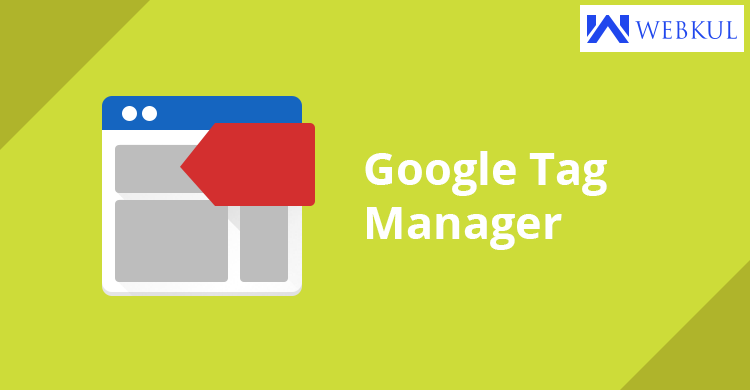
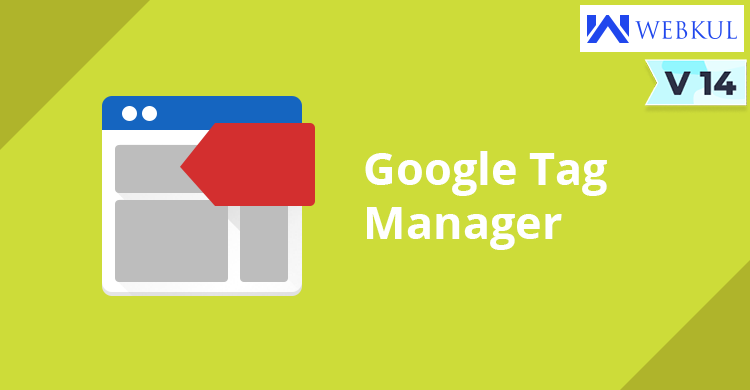
Upload Google Tag Manager 14

Changed region(s): [[0.8587, 0.1538, 1.0, 0.2769]]

diff --git a/odoo_google_tag_manager/static/description/index.html b/odoo_google_tag_manager/static/description/index.html
@@ -1,12 +1,39 @@
 <!-- Copyright (c) 2017-Present Webkul Software Pvt. Ltd. (<https://webkul.com/>) -->
 <!-- See LICENSE file for full copyright and licensing details. -->
 <!-- License URL: https://store.webkul.com/license.html/ -->
+<section class="oe_container" id="wk_header">
+    <div class="mt32 mb32">
+        <h2 class="text-center" style="color:#000">
+            Google Tag Manager
+        </h2>
+        <h5 class="mt8 mb8 text-center" style="font-weight:500; font-size:18px; color:#484848; font-family:'Montserrat', sans-serif">
+            <i>Measure actions and build audiences & Track visitor activity </i>
+        </h5>
+    </div>
+    <div class="row mt16 mb16 py-2 m-1" style="font-weight:500; font-size:18px; color:#484848; font-family:'Montserrat', sans-serif">
+        <div class="container col-md-6 border-right" style="font-weight:500;line-height: 24px;font-size:16px;color:#484848;font-family:'Montserrat', sans-serif; vertical-align: middle; display: grid;">
+            <p class="mb4 mt4 mr8">
+                Manage all your tags without editing code. Google Tag Manager delivers simple, reliable, easily integrated tag management.
+            </p>
+        </div>
+        <div class="container col-md-6 ">
+            <h4 class="ml-md-3">Information</h4>
+            <div class="mt-2 ml-md-3" style="display:flex">
+                <span class="ml-1 mr-2 my-auto"><img src="screenshot/icon-user-guide.png" alt="user-guide"></span>
+                <div style="font-weight: 600;font-size: 14px;line-height: 10px;" class="mt-2">
+                    User Guide
+                </div>
+            </div>
+            <div class="ml-md-3" style="display:flex;">
+                <span style="font-size:15px; margin-top:0.2rem">https://webkul.com/blog/odoo-google-tag-manager</span>
+            </div>
+        </div>
+    </div>
+</section>
 <section class="oe_container oe_dark">
     <div class="oe_row oe_spaced" style="max-width: 100%;">
-        <h2 class="oe_slogan">Google Tag Manager</h2>
-        <h3 class="oe_slogan">Manage all your tags without editing code. Google Tag Manager delivers simple, reliable, easily integrated tag management.</h3>
         <div class="oe_span12" style="max-width: 100%;">
-          <div class="panel panel-primary">
+          <div class="panel">
             <div class="panel-body">
 
                 <div class="alert alert-info">
@@ -57,7 +84,8 @@
         </div>
         <div class="oe_span12" style="max-width: 100%;">
             <p>Setup an account in Google Tag Manager & get container id from the account. For more info <b><a href="https://support.google.com/tagmanager/answer/6103696?hl=en" target="new"> Click Here</a></b>.</p>
-            <p>Simple configuration for back-end from <b><i> Website Admin > Settings > Google Tagmanager ID</i></b>. Generate & fill Tag Manager container id to eneble tagging.</p>
+            <p>Simple configuration for back-end user which will be easily available from <b><i> Website > Configuration > Settings > Website > Google Tag Manager</i></b>.</p>
+            <p>Enable Google Tag Manager Setting & then fill container id.</p>
             <div class="oe_demo oe_picture oe_screenshot" style="max-height: 100%;" >
                 <a href="screenshot/screenshot_002.jpg" target="_blank">
                     <img src="screenshot/screenshot_002.jpg" alt="Odoo Google Tag Manager">
@@ -162,30 +190,69 @@
     </div>
 </section>
 
-<section class="oe_container oe_dark lead">
-    <div class="oe_row" style="max-width: 100%;">
-            <div class="oe_span12" style="max-width: 100%;">
-                <h2 class="oe_slogan">Complimentary Support</h2>
-                <p>
-                You will get 90 days free support for any doubt, queries, and bug fixing (excluding data recovery) or any type of issue related to this module.
-                </p>
-            </div>
+<section class="oe_container oe_dark">
+    <h2 class="oe_slogan">Other Related Modules</h2>
+    <div class="row">
+        <div class="col-md-4">
+            <a href='https://apps.odoo.com/apps/modules/12.0/piwik_website_analytics' target="new">
+                <img class="oe_picture oe_screenshot img-rounded" src="https://apps.odoocdn.com/apps/assets/12.0/piwik_website_analytics/Banner.png"/>
+            </a>
+        </div>
+        <div class="col-md-4">
+            <a href='https://apps.odoo.com/apps/modules/14.0/fb_pixel' target="new">
+                <img class="oe_picture oe_screenshot img-rounded" src="https://apps.odoocdn.com/apps/assets/14.0/fb_pixel/Banner.png"/>
+            </a>
+        </div>
+        <div class="col-md-4">
+            <a href='https://apps.odoo.com/apps/modules/13.0/google_rich_snippets' target="new">
+                <img class="oe_picture oe_screenshot img-rounded" src="https://apps.odoocdn.com/apps/assets/13.0/google_rich_snippets/Banner.png"/>
+            </a>
+        </div>
     </div>
-    <div class="oe_row oe_spaced" style="max-width: 100%;">
-        <div class="oe_span12" style="max-width: 100%;">
+</section>
+
+<section class="pt32" id="webkul_support">
+    <div class="row">
+        <div class="col-12">
             <h2 class="text-center">Help and Support</h2>
+            <p class="mb-2 text-center" style="font-size:16px; color:#333; font-weight:400">Get Immediate support for any of your query</p>
         </div>
-        <br>
-        <div class="oe_slogan oe_spaced">
-            <span><a data-toggle="tooltip" data-placement="bottom" title="Get Instant Help !" target="_blank" href="https://webkul.uvdesk.com/en/customer/create-ticket/"> <i class="fa fa-life-ring"></i> Help</a></span>
-            <span><a data-toggle="tooltip" data-placement="bottom" title="Get Instant Support!" target="_blank" href="https://webkul.uvdesk.com/en/customer/create-ticket/"><i class="fa fa-ticket"></i> Support</a></span>
-            <span><a data-toggle="tooltip" data-placement="bottom" title="Request Features now !" target="_blank" href="https://webkul.uvdesk.com/en/customer/create-ticket/"><i class="fa fa-check-circle"></i> Request new Features</a></span>
+        <div class="col-12">
+            <p class="text-center px-5" style="font-size:14px; color:#555; font-weight:normal">You will get 90 days free support for any doubt, queries, and bug fixing (excluding data recovery) or any type of issue related to this module.</p>
+        </div>
+        <div class="mx-auto col-lg-9 mb-4 oe_screenshot">
+            <div class="row align-items-center justify-content-center mx-0 p-3">
+                <div class="col-sm-2 text-center pr-0">
+                    <img src="screenshot/mail.png" alt="mail" class="img img-fluid">
+                </div>
+                <div class="col-xl-7 col-sm-10">
+                    <p class="my-2" style="color:#555; font-weight:bold">Write a mail to us:</p>
+                    <b class="text-primary" style="font-size:18px">support@webkul.com</b>
+                    <p class="my-2" style="font-size:14px; color:#777; font-weight:normal">Any queries or want any extra features? Just drop a mail to our support team.</p>
+                </div>
+                <div class="col-xl-3 offset-xl-0 float-xl-right col-sm-10 offset-sm-2 float-left mt16">
+                    <a href="mailto:support@webkul.com" style="padding:10px 22px; background-color:#2335D7; font-size:14px; color:#fff"><i class="fa fa-pencil-square-o" style="color:white; margin-right:4px"></i>Write To US</a>
+                </div>
+            </div>
+        </div>
+        <div class="mx-auto col-lg-9 oe_screenshot">
+            <div class="row align-items-center justify-content-center mx-0 p-3">
+                <div class="col-sm-2 text-center pr-0">
+                    <img src="screenshot/support-icon.png" alt="support-icon" class="img img-fluid">
+                </div>
+                <div class="col-sm-10 ">
+                    <p class="my-2" style="font-weight:bold; color:#555">Get in touch with our Expert:</p>
+                    <b class="text-primary text-break" style="font-size:18px">https://webkul.uvdesk.com/en/customer/create-ticket/</b>
+                    <p class="my-2" style="font-weight:normal; font-size:14px; color:#777">Have any technical queries, want extra features, or anything else? Our team is here to answer all your questions. Just Raise A Support Ticket.</p>
+                </div>
+            </div>
         </div>
     </div>
-</section><section class="oe_container">
+</section>
+<section class="oe_container">
     <div class="oe_span12" style="max-width: 100%;">
         <!-- Matomo Image Tracker-->
-        <img src="http://odooimg.webkul.com/analytics/piwik/piwik.php?idsite=3&rec=1&action_name=GOOGLE-TAG-MANAGER&url=https://apps.openerp.com/apps/modules/10.0/odoo_google_tag_manager&uid=odoo_google_tag_manager" style="border:0" alt="" />
+        <img src="http://odooimg.webkul.com/analytics/piwik/piwik.php?idsite=3&rec=1&action_name=GOOGLE-TAG-MANAGER&url=https://apps.openerp.com/apps/modules/14.0/odoo_google_tag_manager&uid=odoo_google_tag_manager" style="border:0" alt="" />
         <!-- End Matomo -->
     </div>
 </section>

diff --git a/odoo_google_tag_manager/__manifest__.py b/odoo_google_tag_manager/__manifest__.py
@@ -15,9 +15,9 @@
 #################################################################################
 {
   "name"                 :  "Google Tag Manager",
-  "summary"              :  "The module integrates Odoo with Google Tag Manager so you can send the customer behaviour data from Odoo website to Google analytics.",
+  "summary"              :  """The module integrates Odoo with Google Tag Manager so you can send the customer behaviour data from Odoo website to Google analytics.""",
   "category"             :  "Website",
-  "version"              :  "1.0.0",
+  "version"              :  "1.0.2",
   "sequence"             :  1,
   "author"               :  "Webkul Software Pvt. Ltd.",
   "license"              :  "Other proprietary",
@@ -33,18 +33,16 @@ Use GTM in odoo
 Track customer data
 Google analytics in Odoo
 Analyze website data
-Track customer behaviour on website
-    """,
+Track customer behaviour on website""",
   "live_test_url"        :  "http://odoodemo.webkul.com/?module=odoo_google_tag_manager",
   "depends"              :  ['website_sale'],
   "data"                 :  [
-                             'views/website_views.xml',
-                             'views/res_config.xml',
+                             'views/res_config_settings_views.xml',
                              'views/snippets_template.xml',
                             ],
   "images"               :  ['static/description/Banner.png'],
   "application"          :  True,
   "price"                :  45,
-  "currency"             :  "EUR",
+  "currency"             :  "USD",
   "pre_init_hook"        :  "pre_init_check",
 }

diff --git a/odoo_google_tag_manager/models/res_config_settings.py b/odoo_google_tag_manager/models/res_config_settings.py
@@ -1,0 +1,35 @@
+# -*- coding: utf-8 -*-
+##############################################################################
+# Copyright (c) 2017-Present Webkul Software Pvt. Ltd. (<https://webkul.com/>)
+# See LICENSE file for full copyright and licensing details.
+# License URL : <https://store.webkul.com/license.html/>
+##############################################################################
+
+
+from odoo import api, fields, models
+
+
+class ResConfigSettings(models.TransientModel):
+    _inherit = 'res.config.settings'
+
+    @api.depends('website_id')
+    def has_google_tagmanager(self):
+        self.has_google_tagmanager = bool(self.google_tagmanager_key)
+
+    def inverse_has_google_tagmanager(self):
+        if not self.has_google_tagmanager:
+            self.google_tagmanager_key = False
+
+    has_google_tagmanager = fields.Boolean(
+        string="Google Tag Manager",
+        compute=has_google_tagmanager,
+        inverse=inverse_has_google_tagmanager)
+    google_tagmanager_key = fields.Char(
+        string='Google container ID', 
+        related='website_id.google_tagmanager_key',
+        readonly=False)
+
+    @api.onchange('has_google_tagmanager')
+    def onchange_has_google_tagmanager(self):
+        if not self.has_google_tagmanager:
+            self.google_tagmanager_key = False

diff --git a/odoo_google_tag_manager/__init__.py b/odoo_google_tag_manager/__init__.py
@@ -13,6 +13,6 @@ def pre_init_check(cr):
     from odoo.exceptions import Warning
     version_info = common.exp_version()
     server_serie = version_info.get('server_serie')
-    if server_serie != '10.0':
+    if server_serie != '14.0':
         raise Warning(
-            'Module support Odoo series 10.0 found {}.'.format(server_serie))
+            'Module support Odoo series 14.0 found {}.'.format(server_serie))

diff --git a/odoo_google_tag_manager/models/website.py b/odoo_google_tag_manager/models/website.py
@@ -12,4 +12,4 @@ from odoo import fields, models
 class Website(models.Model):
     _inherit = 'website'
 
-    google_tagmanager_key = fields.Char('Google container ID', help="Google Tag Manager container id.")
+    google_tagmanager_key = fields.Char('Google container ID')

diff --git a/odoo_google_tag_manager/models/__init__.py b/odoo_google_tag_manager/models/__init__.py
@@ -6,4 +6,4 @@
 ##############################################################################
 
 from . import website
-from . import res_config
+from . import res_config_settings
